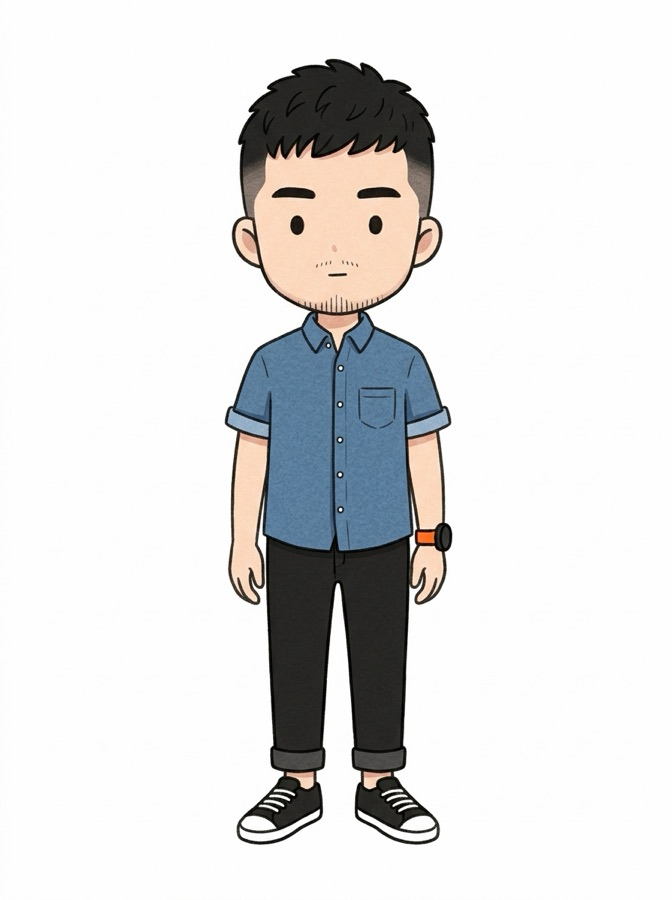
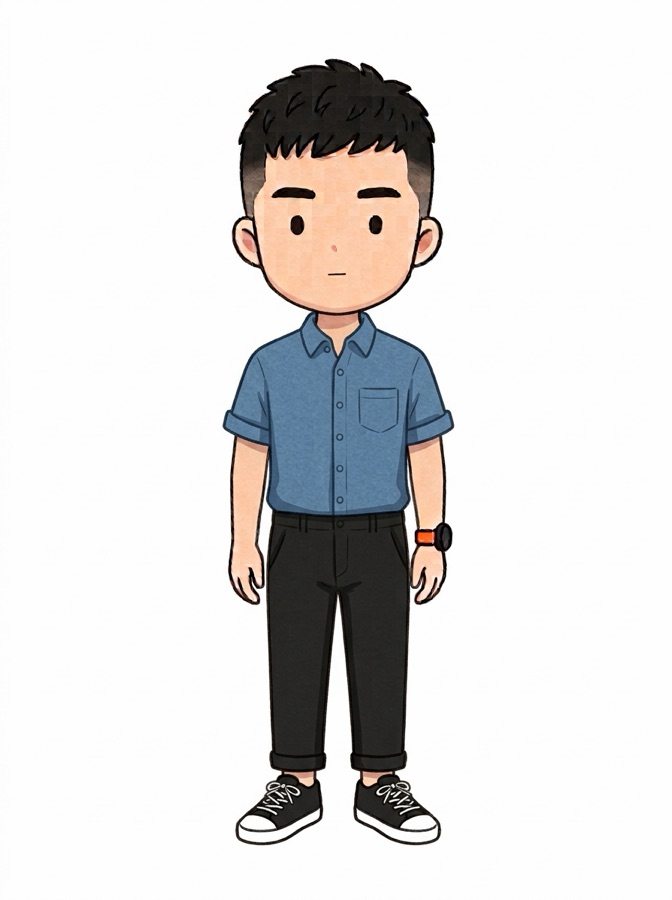
六套穿搭插圖改為無鬍版本，更新角色定稿

Changed region(s): [[0.3125, 0.1556, 0.6875, 0.9644], [0.375, 0.7778, 0.4062, 0.8089]]

diff --git a/index.html b/index.html
@@ -1,5 +1,5 @@
 <!doctype html>
-<html lang="zh-Hant" data-v="14">
+<html lang="zh-Hant" data-v="15">
 <head>
 <meta charset="utf-8">
 <meta name="viewport" content="width=device-width, initial-scale=1, viewport-fit=cover">
